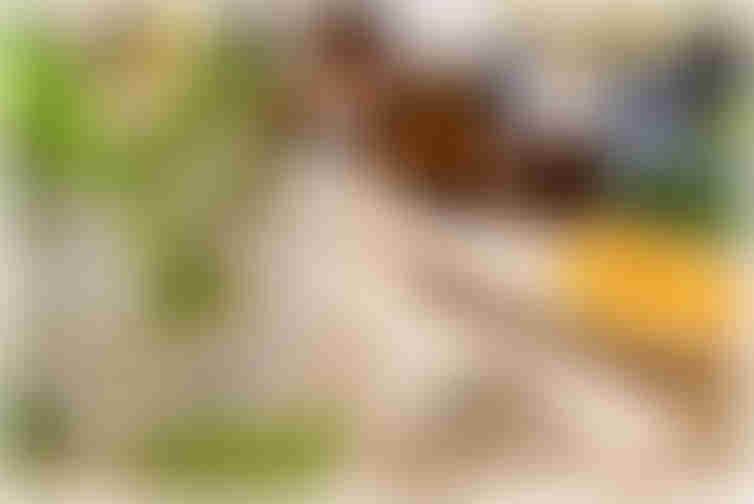
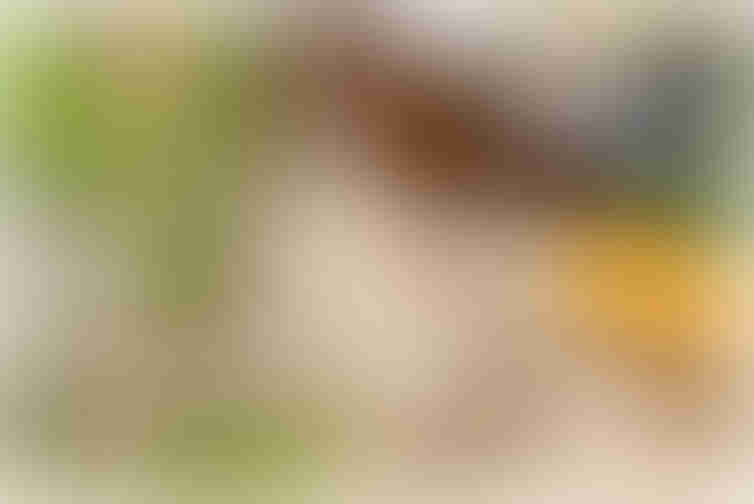
Updated landing page

diff --git a/css/style.css b/css/style.css
@@ -1,1 +1,1 @@
-*{box-sizing:border-box}body{color:#555}::-moz-selection{background:#b3d4fc;text-shadow:none}::selection{background:#b3d4fc;text-shadow:none}a{text-decoration:none;color:#555;transition:color 200ms ease-in-out}a:hover,a:focus,a:active{color:#ccc}h2{font-size:1.2em;font-weight:bold;text-transform:uppercase}ul{padding:0;margin:0;list-style-type:none}.outdated{text-align:center;position:relative;z-index:9999}.inverted{color:#fff}.inverted a{color:#fff}.teaser{position:fixed;top:0;left:0;width:100vw;height:100vh;background:url("../img/teaser.jpg") no-repeat center center fixed;background-size:cover}.hero{position:fixed;top:0;left:0;width:100%;height:100%;background:#000 url("../img/teaser.placeholder.jpg") no-repeat center center fixed;background-size:cover}.hero img{position:absolute;top:50%;left:50%;transform:translate(-50%, -50%);min-width:100%;height:110%}.display-desktop{display:block}.display-mobile{display:none}@media only screen and (max-width: 767px){.teaser{background-image:url("../img/teaser-mobile.jpg")}.display-desktop{display:none}.display-mobile{display:block}}.main-header{position:fixed;top:0;left:0;width:100%;background-color:rgba(255,255,255,0.9);text-align:center;padding:2em 0 1.75em}.main-header .logo{display:inline-block;text-indent:-9999px;width:158px;height:18px;background:url("../img/logo.png") no-repeat center/80%}.main-nav{margin-top:2em}.main-nav ul{margin:0 auto}.main-nav ul li{display:inline-block;padding:0 1em}.main-nav ul a{display:block;padding:0.5em;font-size:12px;text-transform:uppercase}.hamburger{display:none;position:absolute;top:2em;left:2em}.hamburger-box{position:relative;display:inline-block;width:20px;height:18px;cursor:pointer}.hamburger-box .hamburger-inner{display:block;margin-top:-2px;top:2px;transition:background-color 0s linear .13s;position:absolute;width:20px;height:2px;background-color:#bbb}.hamburger-box .hamburger-inner:before,.hamburger-box .hamburger-inner:after{display:block;content:"";position:absolute;width:20px;height:2px;transition-timing-function:ease;transition-duration:.15s;transition-property:transform;background-color:#bbb}.hamburger-box .hamburger-inner:before{top:8px;transition:top 0.1s cubic-bezier(0.33333, 0.66667, 0.66667, 1) 0.2s,transform 0.13s cubic-bezier(0.55, 0.055, 0.675, 0.19)}.hamburger-box .hamburger-inner:after{width:12px;top:16px;transition:top 0.2s cubic-bezier(0.33333, 0.66667, 0.66667, 1) 0.2s,transform 0.13s cubic-bezier(0.55, 0.055, 0.675, 0.19)}.is-active .hamburger-box .hamburger-inner{transition-delay:.22s;background-color:transparent !important}.is-active .hamburger-box .hamburger-inner:before,.is-active .hamburger-box .hamburger-inner:after{background-color:#bbb}.is-active .hamburger-box .hamburger-inner:before{top:0;transition:top 0.1s cubic-bezier(0.33333, 0, 0.66667, 0.33333) 0.15s,transform 0.13s cubic-bezier(0.215, 0.61, 0.355, 1) 0.22s;transform:translate3d(0, 10px, 0) rotate(45deg)}.is-active .hamburger-box .hamburger-inner:after{width:20px;top:0;transition:top 0.2s cubic-bezier(0.33333, 0, 0.66667, 0.33333),transform 0.13s cubic-bezier(0.215, 0.61, 0.355, 1) 0.22s;transform:translate3d(0, 10px, 0) rotate(-45deg)}@media only screen and (max-width: 767px){.main-nav{margin-top:0;position:absolute;width:100%;top:78px;background-color:#E2B77C;padding:1em 0;visibility:hidden;opacity:0;transition:all 0.2s ease-in}.main-nav ul li{display:block;padding:0}.main-nav ul li a{display:block;color:#fff;width:100%;font-size:14px;padding:1em}.main-nav.is-active{visibility:visible;opacity:1}.hamburger{display:block}}.main-footer{text-align:center;background-color:#333;padding:4em 0 0;color:#fff}.main-footer h2{margin:0 auto 2em}.main-footer ul li{display:inline;padding:0 1em 0 0.75em;border-right:1px solid #989898}.main-footer ul li:last-child{border-right:0}.main-footer ul li a{color:#fff}.main-footer ul li a:hover,.main-footer ul li a:focus,.main-footer ul li a:active{color:#ccc}.main-footer .social a{margin-right:1em;font-size:1.1em}.main-footer form{padding:3.5em 0}.main-footer form input{width:240px;border:0;padding:0.75em 1em;font-size:14px;margin-right:0.25em;color:#555}.main-footer form input::-moz-placeholder{color:#ccc}.main-footer form input:-ms-input-placeholder{color:#ccc}.main-footer form input::placeholder{color:#ccc}.main-footer form button{border:0;border-radius:2px;background-color:#E2B77C;text-transform:uppercase;padding:1em;font-size:12px;vertical-align:top;transition:all 200ms ease-in-out}.main-footer form button:hover,.main-footer form button:focus,.main-footer form button:active{background-color:#ccc}.main-footer small{display:block;font-size:14px;color:#ccc;padding:4em 2em;border-top:1px solid #989898;max-width:930px;margin:0 auto}@media only screen and (max-width: 767px){.main-footer{padding:3em 2em}.main-footer ul li{display:block;margin-bottom:0.5em;border-right:0}.main-footer .social{padding:1em 0}.main-footer .social a{margin:0 0.5em}.main-footer form{padding:0.5em 0 3em}.main-footer form input{margin-right:0;margin-bottom:1em;width:100%;padding:1em}.main-footer form button{width:100%;padding:1.25em 1em}.main-footer small{padding:3em 2em 0em}}.main-container{padding-top:136px}section{text-align:center}section img{max-width:930px;width:100%}section .desc{padding:5em 0 7em}section h2{margin:0 auto 1.5em}section p{max-width:650px;margin:0 auto;padding:0 2em;line-height:1.5em}@media only screen and (max-width: 767px){.main-container{padding-top:78px}section .desc{padding:3em 0 5em}}
+*{box-sizing:border-box}body{font-family:"Roboto",sans-serif;color:#555}::-moz-selection{background:#b3d4fc;text-shadow:none}::selection{background:#b3d4fc;text-shadow:none}a{text-decoration:none;color:#555;transition:color 200ms ease-in-out}a:hover,a:focus,a:active{color:#ccc}h2{font-size:1.2em;font-weight:bold;text-transform:uppercase}ul{padding:0;margin:0;list-style-type:none}.outdated{text-align:center;position:relative;z-index:9999}.inverted{color:#fff}.inverted a{color:#fff}.hero{position:fixed;top:0;left:0;width:100%;height:100%;background:#000 url("../img/coming-soon.placeholder.jpg") no-repeat center center fixed;background-size:cover}.hero img{position:absolute;top:50%;left:50%;transform:translate(-50%, -50%);min-width:100%;height:110%}.hero .logo{position:absolute;top:40px;left:50%;max-width:118px;transform:translate(-50%, 0);z-index:1}.hero .logo svg{width:100%;height:auto}.hero h1{position:absolute;top:50%;left:50%;transform:translate(-50%, -50%);text-transform:uppercase;color:#fff;font-size:54px;line-height:63px;letter-spacing:6px;margin:0;white-space:nowrap}.hero h1:before,.hero h1:after{position:absolute;top:50%;content:"";display:block;width:141.42px;height:1px;background-color:#fff;transform:rotate(-45deg) translate(0, -50%)}.hero h1:before{right:110%}.hero h1:after{left:110%}.hero footer{position:absolute;width:100%;bottom:60px;left:0;text-align:center;padding:0 37px}.hero footer small{color:#fff;font-size:18px;font-weight:300}.display-desktop{display:block}.display-mobile{display:none}@media only screen and (max-width: 991px){.hero h1:before,.hero h1:after{right:auto;left:50%;transform:rotate(-45deg) translate(-50%, -50%);margin-left:-20px}.hero h1:before{top:-310%}.hero h1:after{top:210%}}@media only screen and (max-width: 767px){.display-desktop{display:none}.display-mobile{display:block}.hero .logo{top:30px;max-width:92px}.hero h1{font-size:30px;line-height:35px}.hero h1:before,.hero h1:after{width:83.44px;margin-left:-14px}.hero h1:before{top:-310%}.hero h1:after{top:210%}.hero footer{bottom:30px}.hero footer small{font-size:15px}}.main-header{position:fixed;top:0;left:0;width:100%;background-color:rgba(255,255,255,0.9);text-align:center;padding:2em 0 1.75em}.main-header .logo{display:inline-block;text-indent:-9999px;width:158px;height:18px;background:url("../img/logo.svg") no-repeat center/80%}.main-nav{margin-top:2em}.main-nav ul{margin:0 auto}.main-nav ul li{display:inline-block;padding:0 1em}.main-nav ul a{display:block;padding:0.5em;font-size:12px;text-transform:uppercase}.hamburger{display:none;position:absolute;top:2em;left:2em}.hamburger-box{position:relative;display:inline-block;width:20px;height:18px;cursor:pointer}.hamburger-box .hamburger-inner{display:block;margin-top:-2px;top:2px;transition:background-color 0s linear .13s;position:absolute;width:20px;height:2px;background-color:#bbb}.hamburger-box .hamburger-inner:before,.hamburger-box .hamburger-inner:after{display:block;content:"";position:absolute;width:20px;height:2px;transition-timing-function:ease;transition-duration:.15s;transition-property:transform;background-color:#bbb}.hamburger-box .hamburger-inner:before{top:8px;transition:top 0.1s cubic-bezier(0.33333, 0.66667, 0.66667, 1) 0.2s,transform 0.13s cubic-bezier(0.55, 0.055, 0.675, 0.19)}.hamburger-box .hamburger-inner:after{width:12px;top:16px;transition:top 0.2s cubic-bezier(0.33333, 0.66667, 0.66667, 1) 0.2s,transform 0.13s cubic-bezier(0.55, 0.055, 0.675, 0.19)}.is-active .hamburger-box .hamburger-inner{transition-delay:.22s;background-color:transparent !important}.is-active .hamburger-box .hamburger-inner:before,.is-active .hamburger-box .hamburger-inner:after{background-color:#bbb}.is-active .hamburger-box .hamburger-inner:before{top:0;transition:top 0.1s cubic-bezier(0.33333, 0, 0.66667, 0.33333) 0.15s,transform 0.13s cubic-bezier(0.215, 0.61, 0.355, 1) 0.22s;transform:translate3d(0, 10px, 0) rotate(45deg)}.is-active .hamburger-box .hamburger-inner:after{width:20px;top:0;transition:top 0.2s cubic-bezier(0.33333, 0, 0.66667, 0.33333),transform 0.13s cubic-bezier(0.215, 0.61, 0.355, 1) 0.22s;transform:translate3d(0, 10px, 0) rotate(-45deg)}@media only screen and (max-width: 767px){.main-nav{margin-top:0;position:absolute;width:100%;top:78px;background-color:#E2B77C;padding:1em 0;visibility:hidden;opacity:0;transition:all 0.2s ease-in}.main-nav ul li{display:block;padding:0}.main-nav ul li a{display:block;color:#fff;width:100%;font-size:14px;padding:1em}.main-nav.is-active{visibility:visible;opacity:1}.hamburger{display:block}}.main-footer{text-align:center;background-color:#333;padding:4em 0 0;color:#fff}.main-footer h2{margin:0 auto 2em}.main-footer ul li{display:inline;padding:0 1em 0 0.75em;border-right:1px solid #989898}.main-footer ul li:last-child{border-right:0}.main-footer ul li a{color:#fff}.main-footer ul li a:hover,.main-footer ul li a:focus,.main-footer ul li a:active{color:#ccc}.main-footer .social a{margin-right:1em;font-size:1.1em}.main-footer form{padding:3.5em 0}.main-footer form input{width:240px;border:0;padding:0.75em 1em;font-size:14px;margin-right:0.25em;color:#555}.main-footer form input::-moz-placeholder{color:#ccc}.main-footer form input:-ms-input-placeholder{color:#ccc}.main-footer form input::placeholder{color:#ccc}.main-footer form button{border:0;border-radius:2px;background-color:#E2B77C;text-transform:uppercase;padding:1em;font-size:12px;vertical-align:top;transition:all 200ms ease-in-out}.main-footer form button:hover,.main-footer form button:focus,.main-footer form button:active{background-color:#ccc}.main-footer small{display:block;font-size:14px;color:#ccc;padding:4em 2em;border-top:1px solid #989898;max-width:930px;margin:0 auto}@media only screen and (max-width: 767px){.main-footer{padding:3em 2em}.main-footer ul li{display:block;margin-bottom:0.5em;border-right:0}.main-footer .social{padding:1em 0}.main-footer .social a{margin:0 0.5em}.main-footer form{padding:0.5em 0 3em}.main-footer form input{margin-right:0;margin-bottom:1em;width:100%;padding:1em}.main-footer form button{width:100%;padding:1.25em 1em}.main-footer small{padding:3em 2em 0em}}.main-container{padding-top:136px}section{text-align:center}section img{max-width:930px;width:100%}section .desc{padding:5em 0 7em}section h2{margin:0 auto 1.5em}section p{max-width:650px;margin:0 auto;padding:0 2em;line-height:1.5em}@media only screen and (max-width: 767px){.main-container{padding-top:78px}section .desc{padding:3em 0 5em}}

diff --git a/index.html b/index.html
@@ -12,6 +12,7 @@
         <link rel="apple-touch-icon" href="apple-touch-icon.png">
         <link rel="shortcut icon" type="image/x-icon" href="favicon.ico"/>
 
+        <link href="https://fonts.googleapis.com/css?family=Roboto:300,400" rel="stylesheet">
         <link rel="stylesheet" href="css/normalize.min.css">
         <link rel="stylesheet" href="css/style.css">
 
@@ -26,12 +27,38 @@
         <![endif]-->
 
         <div class="hero">
-            <img src="img/hero.placeholder.jpg" data-layzr="img/hero.jpg" alt="Schenry coming soon" />
+            <img src="img/coming-soon.placeholder.jpg" data-layzr="img/coming-soon.jpg" alt="Schenry coming soon" />
+
+            <header>
+                <div class="logo">
+                    <svg xmlns="http://www.w3.org/2000/svg" viewBox="0 0 212.83 32">
+                        <defs><style>.cls-1{fill:#fff;}</style></defs>
+                        <title>Asset 1</title>
+                        <g>
+                            <g>
+                                <path class="cls-1" d="M0,29.88A22.22,22.22,0,0,0,9.42,32a11.14,11.14,0,0,0,7.11-2.45,7.49,7.49,0,0,0,3.1-6.09,7.8,7.8,0,0,0-2.73-6,42.65,42.65,0,0,0-5.26-3.6q-4.31-2.69-4.81-3.09A4.8,4.8,0,0,1,4.85,7,3.41,3.41,0,0,1,6,4.39a5.74,5.74,0,0,1,4.07-1.3,17.27,17.27,0,0,1,6.78,1.48L18.1,1.62A19.27,19.27,0,0,0,10,0,9.57,9.57,0,0,0,3.49,2.24,7.09,7.09,0,0,0,.92,7.8a7.6,7.6,0,0,0,2.45,5.68,35.62,35.62,0,0,0,5,3.37c2.65,1.6,4.22,2.61,4.71,3a5.43,5.43,0,0,1,2.26,4.2,4.35,4.35,0,0,1-1.71,3.39,6,6,0,0,1-4,1.46A21.51,21.51,0,0,1,1.34,27Z"/>
+                                <path class="cls-1" d="M42,28.77a10.73,10.73,0,0,1-8.2-3.7,12.89,12.89,0,0,1-3.39-9A13.24,13.24,0,0,1,33.65,7a10.09,10.09,0,0,1,7.87-3.72A21.1,21.1,0,0,1,50.2,5.31l1.2-3A20.08,20.08,0,0,0,41.33,0,14.27,14.27,0,0,0,30.07,5,16.1,16.1,0,0,0,26,16a15.93,15.93,0,0,0,4.11,11,14.27,14.27,0,0,0,11.26,5,19.16,19.16,0,0,0,10.72-2.82L50.57,26.6A16.26,16.26,0,0,1,42,28.77"/>
+                                <polygon class="cls-1" points="79.74 0.6 79.74 13.99 64.41 13.99 64.41 0.6 60.3 0.6 60.3 31.4 64.41 31.4 64.41 17.09 79.74 17.09 79.74 31.4 83.85 31.4 83.85 0.6 79.74 0.6"/>
+                                <polygon class="cls-1" points="149.11 0.58 149.11 24.54 131.79 0.58 128.71 0.58 128.71 31.38 132.08 31.38 132.08 7.69 149.4 31.38 152.49 31.38 152.49 0.58 149.11 0.58"/>
+                                <path class="cls-1" d="M175.17,16.12a8,8,0,0,0,4.39-2.89A8,8,0,0,0,181.5,8a6.51,6.51,0,0,0-2-4.67Q176.88.61,171.71.6h-8.17V31.4h4.11V16.9h3.41l8.87,14.5h4.71Zm-7.52-12.7h3A7.62,7.62,0,0,1,175.84,5a4.77,4.77,0,0,1,1.55,3.65,5,5,0,0,1-1.6,3.65,7,7,0,0,1-5.17,1.85h-3Z"/>
+                                <polygon class="cls-1" points="208.95 0.6 201.24 13.39 193.48 0.6 189.05 0.6 198.79 16.49 198.79 31.4 202.9 31.4 202.9 16.49 212.83 0.6 208.95 0.6"/>
+                                <rect class="cls-1" x="95.31" y="0.58" width="20.92" height="3.14"/><rect class="cls-1" x="95.31" y="14.01" width="20.92" height="3.14"/>
+                                <rect class="cls-1" x="95.31" y="28.26" width="20.92" height="3.14"/>
+                            </g>
+                        </g>
+                    </svg>
+                </div>
+            </header>
+            
+            <h1>Coming soon</h1>
+
+            <footer>
+                <small>Copyright &copy;2019 Schenry™ Technologies Inc. All rights reserved.</small>
+            </footer>
         </div>
 
         <script src="//ajax.googleapis.com/ajax/libs/jquery/1.11.2/jquery.min.js"></script>
         <script>window.jQuery || document.write('<script src="js/vendor/jquery-1.11.2.min.js"><\/script>')</script>
-        <script src="js/vendor.min.js"></script>
         <script src="js/main.min.js"></script>
 
         <!-- Google Analytics: change UA-XXXXX-X to be your site's ID. -->

diff --git a/js/main.min.js b/js/main.min.js
@@ -1,1 +1,1 @@
-$(function(){new Layzr;$("#cta-menu").on("click",function(){$(this).toggleClass("is-active"),$("#main-nav").toggleClass("is-active")}),$(".js-nav-cta").on("click",function(a){if(a.preventDefault(),location.pathname.replace(/^\//,"")==this.pathname.replace(/^\//,"")&&location.hostname==this.hostname){var t=$(this.hash);t=t.length?t:$("[name="+this.hash.slice(1)+"]");var e=$(".main-header").outerHeight();t.length&&(event.preventDefault(),$("#main-nav").toggleClass("is-active"),$("html, body").animate({scrollTop:t.offset().top-e},500))}})});
+!function(t,i){"function"==typeof define&&define.amd?define([],i):"object"==typeof exports?module.exports=i():t.Layzr=i()}(this,function(){"use strict";function t(t){this._lastScroll=0,this._ticking=!1,t=t||{},this._optionsContainer=document.querySelector(t.container)||window,this._optionsSelector=t.selector||"[data-layzr]",this._optionsAttr=t.attr||"data-layzr",this._optionsAttrRetina=t.retinaAttr||"data-layzr-retina",this._optionsAttrBg=t.bgAttr||"data-layzr-bg",this._optionsAttrHidden=t.hiddenAttr||"data-layzr-hidden",this._optionsThreshold=t.threshold||0,this._optionsCallback=t.callback||null,this._retina=1<window.devicePixelRatio,this._srcAttr=this._retina?this._optionsAttrRetina:this._optionsAttr,this._nodes=document.querySelectorAll(this._optionsSelector),this._handlerBind=this._requestScroll.bind(this),this._create()}return t.prototype._requestScroll=function(){this._lastScroll=this._optionsContainer===window?window.pageYOffset:this._optionsContainer.scrollTop+this._getOffset(this._optionsContainer),this._requestTick()},t.prototype._requestTick=function(){this._ticking||(requestAnimationFrame(this.update.bind(this)),this._ticking=!0)},t.prototype._getOffset=function(t){return t.getBoundingClientRect().top+window.pageYOffset},t.prototype._getContainerHeight=function(){return this._optionsContainer.innerHeight||this._optionsContainer.offsetHeight},t.prototype._create=function(){this._handlerBind(),this._optionsContainer.addEventListener("scroll",this._handlerBind,!1),this._optionsContainer.addEventListener("resize",this._handlerBind,!1)},t.prototype._destroy=function(){this._optionsContainer.removeEventListener("scroll",this._handlerBind,!1),this._optionsContainer.removeEventListener("resize",this._handlerBind,!1)},t.prototype._inViewport=function(t){var i=this._lastScroll,e=i+this._getContainerHeight(),n=this._getOffset(t),o=n+this._getContainerHeight(),s=this._optionsThreshold/100*window.innerHeight;return i-s<=o&&n<=e+s&&!t.hasAttribute(this._optionsAttrHidden)},t.prototype._reveal=function(t){var i=t.getAttribute(this._srcAttr)||t.getAttribute(this._optionsAttr);t.hasAttribute(this._optionsAttrBg)?t.style.backgroundImage="url("+i+")":t.setAttribute("src",i),"function"==typeof this._optionsCallback&&this._optionsCallback.call(t),t.removeAttribute(this._optionsAttr),t.removeAttribute(this._optionsAttrRetina),t.removeAttribute(this._optionsAttrBg),t.removeAttribute(this._optionsAttrHidden)},t.prototype.updateSelector=function(){this._nodes=document.querySelectorAll(this._optionsSelector)},t.prototype.update=function(){for(var t=this._nodes.length,i=0;i<t;i++){var e=this._nodes[i];e.hasAttribute(this._optionsAttr)&&this._inViewport(e)&&this._reveal(e)}this._ticking=!1},t}),$(function(){new Layzr;$("#cta-menu").on("click",function(){$(this).toggleClass("is-active"),$("#main-nav").toggleClass("is-active")}),$(".js-nav-cta").on("click",function(t){if(t.preventDefault(),location.pathname.replace(/^\//,"")==this.pathname.replace(/^\//,"")&&location.hostname==this.hostname){var i=$(this.hash);i=i.length?i:$("[name="+this.hash.slice(1)+"]");var e=$(".main-header").outerHeight();i.length&&(event.preventDefault(),$("#main-nav").toggleClass("is-active"),$("html, body").animate({scrollTop:i.offset().top-e},500))}})});

diff --git a/src/scss/_teaser.scss b/src/scss/_teaser.scss
@@ -1,20 +1,10 @@
-.teaser {
-    position: fixed;
-    top: 0;
-    left: 0;
-    width: 100vw;
-    height: 100vh;
-    background: url('../img/teaser.jpg') no-repeat center center fixed; 
-    background-size: cover;
-}
-
 .hero {
     position: fixed;
     top: 0;
     left: 0;
     width: 100%;
     height: 100%;
-    background: #000 url('../img/teaser.placeholder.jpg') no-repeat center center fixed; 
+    background: #000 url('../img/coming-soon.placeholder.jpg') no-repeat center center fixed; 
     background-size: cover;
 
     img {
@@ -25,15 +15,113 @@
         min-width: 100%;
         height: 110%;
     }
+
+    .logo {
+        position: absolute;
+        top: 40px;
+        left: 50%;
+        max-width: 118px;
+        transform: translate(-50%,0);
+        z-index: 1;
+        svg { width: 100%; height: auto; }
+    }
+
+    h1 {
+        position: absolute;
+        top: 50%;
+        left: 50%;
+        transform: translate(-50%,-50%);
+        text-transform: uppercase;
+        color: #fff;
+        font-size: 54px;
+        line-height: 63px;
+        letter-spacing: 6px;
+        margin: 0;
+        white-space: nowrap;
+
+        &:before, &:after {
+            position: absolute;
+            top: 50%;
+            content: "";
+            display: block;
+            width: 141.42px;
+            height: 1px;
+            background-color: #fff;
+            transform: rotate(-45deg) translate(0,-50%);
+        }
+        &:before {
+            right: 110%;
+        }
+        &:after {
+            left: 110%;
+        }
+    }
+
+    footer {
+        position: absolute;
+        width: 100%;
+        bottom: 60px;
+        left: 0;
+        text-align: center;
+        padding: 0 37px;
+        small {
+            color: #fff;
+            font-size: 18px;
+            font-weight: $font-weight-light;
+        }
+    }
 }
 
 .display-desktop { display: block; }
 .display-mobile { display: none; }
 
-@media only screen and (max-width: $mobile-width) {
-    .teaser {
-        background-image: url('../img/teaser-mobile.jpg');
+@media only screen and (max-width: $tablet-width) {
+    .hero {
+        h1 {
+            &:before, &:after {
+                right: auto;
+                left: 50%;
+                transform: rotate(-45deg) translate(-50%,-50%);
+                margin-left: -20px;
+            }
+            &:before {
+                top: -310%;
+            }
+            &:after {
+                top: 210%;
+            }
+        }
     }
+}
+
+@media only screen and (max-width: $mobile-width) {
     .display-desktop { display: none; }
     .display-mobile { display: block; }
+
+    .hero {
+        .logo {
+            top: 30px;
+            max-width: 92px;
+        }
+
+        h1 {
+            font-size: 30px;
+            line-height: 35px;
+
+            &:before, &:after {
+                width: 83.44px;
+                margin-left: -14px;
+            }
+            &:before {
+                top: -310%;
+            }
+            &:after {
+                top: 210%;
+            }
+        }
+        footer {
+            bottom: 30px;
+            small { font-size: 15px; }
+        }
+    }
 }

diff --git a/js/main.js b/js/main.js
@@ -1,3 +1,9 @@
+/*!
+ * Layzr.js 1.4.2 - A small, fast, modern, and dependency-free library for lazy loading.
+ * Copyright (c) 2015 Michael Cavalea - http://callmecavs.github.io/layzr.js/
+ * License: MIT
+ */
+!function(t,i){"function"==typeof define&&define.amd?define([],i):"object"==typeof exports?module.exports=i():t.Layzr=i()}(this,function(){"use strict";function t(t){this._lastScroll=0,this._ticking=!1,t=t||{},this._optionsContainer=document.querySelector(t.container)||window,this._optionsSelector=t.selector||"[data-layzr]",this._optionsAttr=t.attr||"data-layzr",this._optionsAttrRetina=t.retinaAttr||"data-layzr-retina",this._optionsAttrBg=t.bgAttr||"data-layzr-bg",this._optionsAttrHidden=t.hiddenAttr||"data-layzr-hidden",this._optionsThreshold=t.threshold||0,this._optionsCallback=t.callback||null,this._retina=window.devicePixelRatio>1,this._srcAttr=this._retina?this._optionsAttrRetina:this._optionsAttr,this._nodes=document.querySelectorAll(this._optionsSelector),this._handlerBind=this._requestScroll.bind(this),this._create()}return t.prototype._requestScroll=function(){this._lastScroll=this._optionsContainer===window?window.pageYOffset:this._optionsContainer.scrollTop+this._getOffset(this._optionsContainer),this._requestTick()},t.prototype._requestTick=function(){this._ticking||(requestAnimationFrame(this.update.bind(this)),this._ticking=!0)},t.prototype._getOffset=function(t){return t.getBoundingClientRect().top+window.pageYOffset},t.prototype._getContainerHeight=function(){return this._optionsContainer.innerHeight||this._optionsContainer.offsetHeight},t.prototype._create=function(){this._handlerBind(),this._optionsContainer.addEventListener("scroll",this._handlerBind,!1),this._optionsContainer.addEventListener("resize",this._handlerBind,!1)},t.prototype._destroy=function(){this._optionsContainer.removeEventListener("scroll",this._handlerBind,!1),this._optionsContainer.removeEventListener("resize",this._handlerBind,!1)},t.prototype._inViewport=function(t){var i=this._lastScroll,e=i+this._getContainerHeight(),o=this._getOffset(t),n=o+this._getContainerHeight(),s=this._optionsThreshold/100*window.innerHeight;return n>=i-s&&e+s>=o&&!t.hasAttribute(this._optionsAttrHidden)},t.prototype._reveal=function(t){var i=t.getAttribute(this._srcAttr)||t.getAttribute(this._optionsAttr);t.hasAttribute(this._optionsAttrBg)?t.style.backgroundImage="url("+i+")":t.setAttribute("src",i),"function"==typeof this._optionsCallback&&this._optionsCallback.call(t),t.removeAttribute(this._optionsAttr),t.removeAttribute(this._optionsAttrRetina),t.removeAttribute(this._optionsAttrBg),t.removeAttribute(this._optionsAttrHidden)},t.prototype.updateSelector=function(){this._nodes=document.querySelectorAll(this._optionsSelector)},t.prototype.update=function(){for(var t=this._nodes.length,i=0;t>i;i++){var e=this._nodes[i];e.hasAttribute(this._optionsAttr)&&this._inViewport(e)&&this._reveal(e)}this._ticking=!1},t});
 $(function() {
 
     var layzr = new Layzr();

diff --git a/home.html b/home.html
@@ -12,6 +12,7 @@
         <link rel="apple-touch-icon" href="apple-touch-icon.png">
         <link rel="shortcut icon" type="image/x-icon" href="favicon.ico"/>
 
+        <link href="https://fonts.googleapis.com/css?family=Roboto:300,400" rel="stylesheet">
         <link rel="stylesheet" href="https://maxcdn.bootstrapcdn.com/font-awesome/4.4.0/css/font-awesome.min.css">
         <link rel="stylesheet" href="css/normalize.min.css">
         <link rel="stylesheet" href="css/style.css">
@@ -96,7 +97,6 @@
 
         <script src="//ajax.googleapis.com/ajax/libs/jquery/1.11.2/jquery.min.js"></script>
         <script>window.jQuery || document.write('<script src="js/vendor/jquery-1.11.2.min.js"><\/script>')</script>
-        <script src="js/vendor.min.js"></script>
         <script src="js/main.min.js"></script>
 
         <!-- Google Analytics: change UA-XXXXX-X to be your site's ID. -->

diff --git a/Gruntfile.js b/Gruntfile.js
@@ -23,12 +23,7 @@ module.exports = function(grunt) {
         concat: {
 			main: {
 				files: {
-					'js/main.js': ['src/js/*.js'],
-				},
-			},
-			vendor: {
-				files: {
-					'js/vendor.js': ['src/js/vendor/*.js'],
+					'js/main.js': ['src/js/vendor/*.js', 'src/js/*.js'],
 				},
 			},
 		},
@@ -71,7 +66,7 @@ module.exports = function(grunt) {
                 files: [{
                     expand: true,
                     cwd: 'src/img',
-                    src: ['**/*.{png,jpg,gif}'],
+                    src: ['**/*.{png,jpg,gif,svg}'],
                     dest: 'img/'
                 }]
             }
@@ -82,7 +77,7 @@ module.exports = function(grunt) {
 				options: {
 					suffix: 'placeholder',
 					actions: {
-						blur: 30,
+						blur: 50,
 						quality: 20,
 					}
 				},

diff --git a/src/scss/_general.scss b/src/scss/_general.scss
@@ -2,6 +2,7 @@
     box-sizing: border-box;
 }
 body {
+    font-family: "Roboto",sans-serif;
     color: $font-color;
 }
 ::selection {
@@ -22,6 +23,7 @@ h2 {
     font-weight: bold;
     text-transform: uppercase;
 }
+
 ul {
     padding: 0;
     margin: 0;

diff --git a/src/scss/_variables.scss b/src/scss/_variables.scss
@@ -1,9 +1,12 @@
 $mobile-width: 767px;
+$tablet-width: 991px;
 
 $font-color: #555;
 $hover-color: #ccc;
 $border-color: #989898;
 $hamburger-color: #bbb;
 $secondary-color: #E2B77C;
+
+$font-weight-light: 300;
 
 $container-width: 930px;

diff --git a/src/scss/_header.scss b/src/scss/_header.scss
@@ -12,7 +12,7 @@
         text-indent: -9999px;
         width: 158px;
         height: 18px;
-        background: url('../img/logo.png') no-repeat center/80%;
+        background: url('../img/logo.svg') no-repeat center/80%;
     }
 }
 
